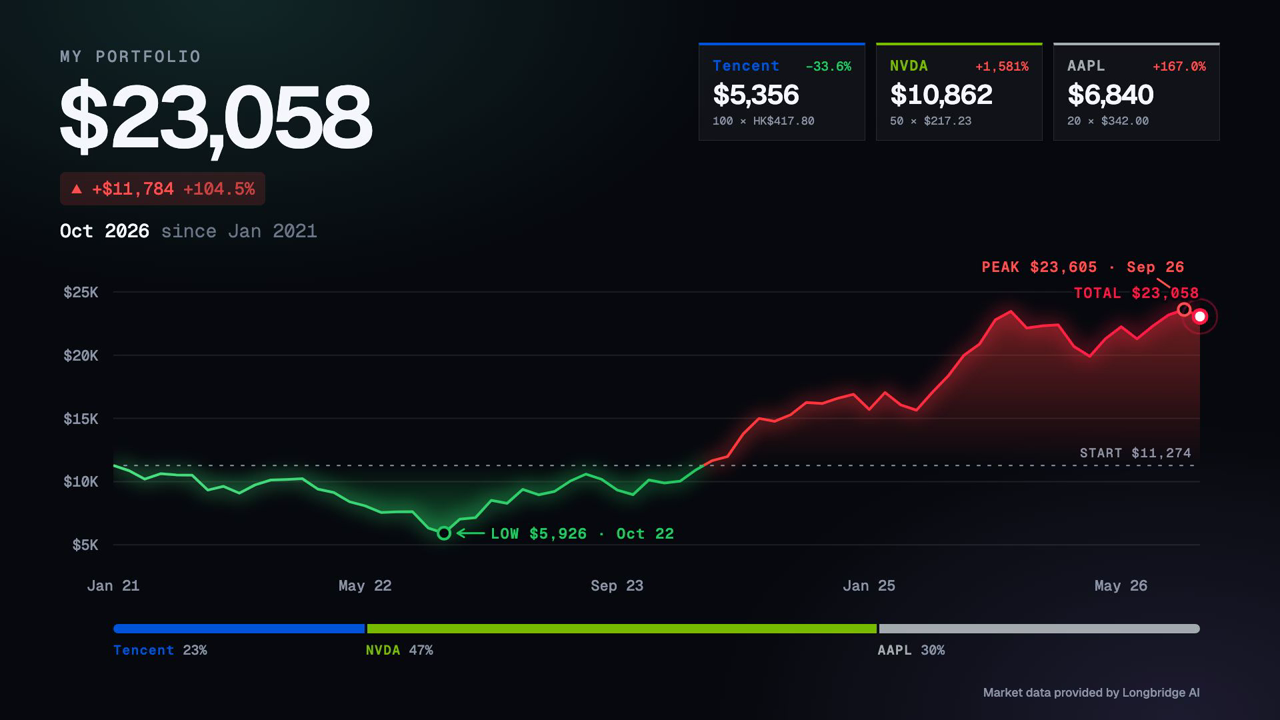
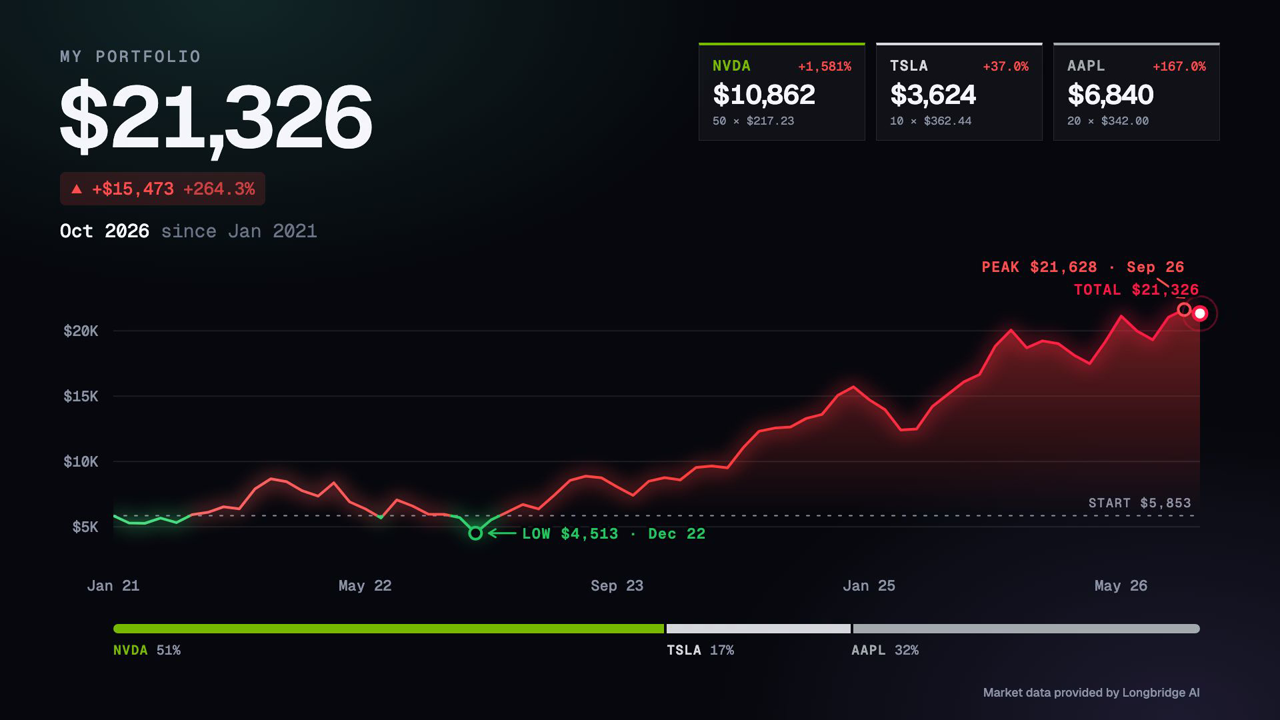
Use NVDA, TSLA and AAPL as the default portfolio

diff --git a/src/Root.tsx b/src/Root.tsx
@@ -26,8 +26,8 @@ export const RemotionRoot: React.FC = () => {
             durationSeconds: 0,
           },
           holdings: [
-            { symbol: "0700.HK", quantity: 100, label: "Tencent", color: "" },
             { symbol: "NVDA.US", quantity: 50, label: "", color: "" },
+            { symbol: "TSLA.US", quantity: 10, label: "", color: "" },
             { symbol: "AAPL.US", quantity: 20, label: "", color: "" },
           ],
           style: {
